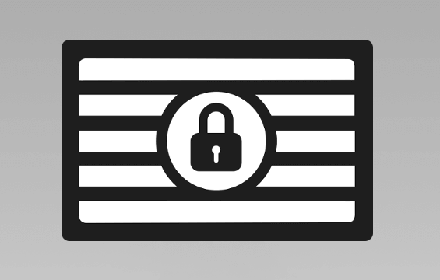
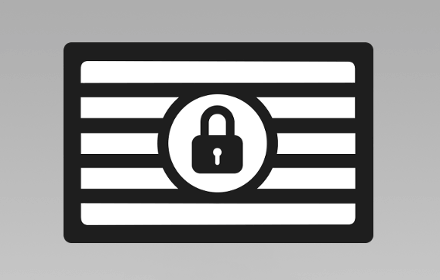
Alteração de titles, css para ie antigo, melhoramento da imagem do cartão matriz

diff --git a/index.html b/index.html
@@ -1,19 +1,22 @@
 <!DOCTYPE HTML>
 <html lang="pt">
 <head prefix="og: http://ogp.me/ns# fb: http://ogp.me/ns/fb# website: http://ogp.me/ns/website#">
-	<title>João Gaião - Web Developer</title>
+	<title>João Gaião - Um Web Developer português</title>
 	<meta charset="utf-8" />
 	<meta name="viewport" content="width=device-width, initial-scale=1" />
 	<meta name="robots" content="index, follow">
 	<meta name="description" content="Site pessoal de João Gaião, um programador que acredita que a Web é mais do que um simples site.">
 	<meta name="keywords" content="web, web portugal, web algarve, João Gaião, web developer, web developer portugal, web developer algarve, html, html portugal, html algarve, javascript, javascript portugal, javascript algarve, mobile, mobile algarve, mobile portugal, html5, html5 algarve, html5 portugal">
-	<meta property="og:title" content="João Gaião - Web Developer" />
+	<meta property="og:title" content="João Gaião - Um Web Developer português" />
 	<meta property="og:type" content="website" />
 	<meta property="og:url" content="http://joaogaiao.pt" />
 	<meta property="og:image" content="http://joaogaiao.pt/images/avatar.jpg" />
 	<meta property="og:description" content="Site pessoal de João Gaião, um programador que acredita que a Web é mais do que um simples site." />
 	<!--[if lte IE 8]><script src="assets/js/ie/html5shiv.js"></script><![endif]-->
 	<!--[if lte IE 8]><link rel="stylesheet" href="assets/css/ie8.css" /><![endif]-->
+	<!--[if lte IE 8]><link rel="stylesheet" type="text/css" href="https://maxcdn.bootstrapcdn.com/font-awesome/4.5.0/css/font-awesome.min.css"><![endif]-->
+	<!--[if lte IE 8]><link rel="stylesheet" type="text/css" href="http://fonts.googleapis.com/css?family=Source+Sans+Pro:300,300italic,400,600"><![endif]-->
+	<!--[if lte IE 8]><link rel="stylesheet" type="text/css" href="assets/css/main.css"><![endif]-->
 	<!--[if lte IE 9]><link rel="stylesheet" href="assets/css/ie9.css" /><![endif]-->
 	<script type="text/javascript">
 	var _gaq = _gaq || [];
